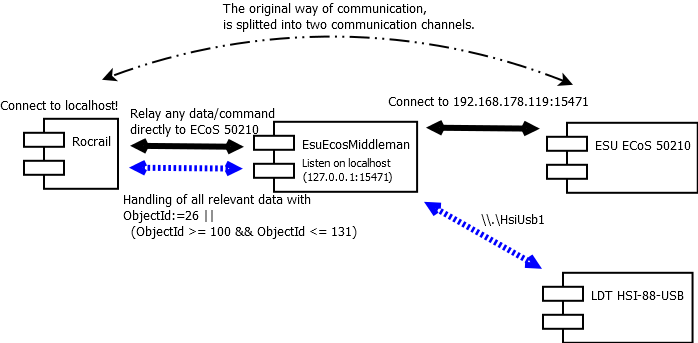
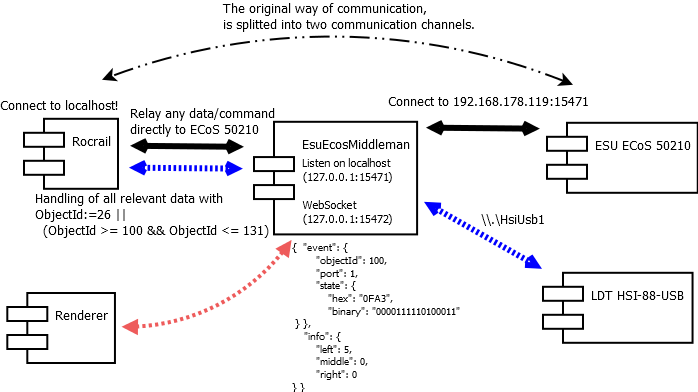
extend architecture description about the websocket channel

diff --git a/README.md b/README.md
@@ -65,9 +65,13 @@ b) the second for all other data
 	
 It will work like a normal connection, as it would established when used directly. But the S88-data is fetched from the `HSI-88-USB` device and weaved into the data stream.
 
-The following figure provides a bird-view of this approach.
+The following figure provides a bird-view of the architecture.
 
 ![Architecture Overview](Documentation/Architecture01.png "Architecture Overview")
+
+In addition, an extra channel as WebSocket connection is added to allow any renderer to access the current feedback state. Open `Renderer/renderer.html` in the browser of your choice to view the web-based S88-renderer.
+
+![Startup5](Documentation/runtime/05_renderer.png "S88 Renderer")
 
 # Environment
 
